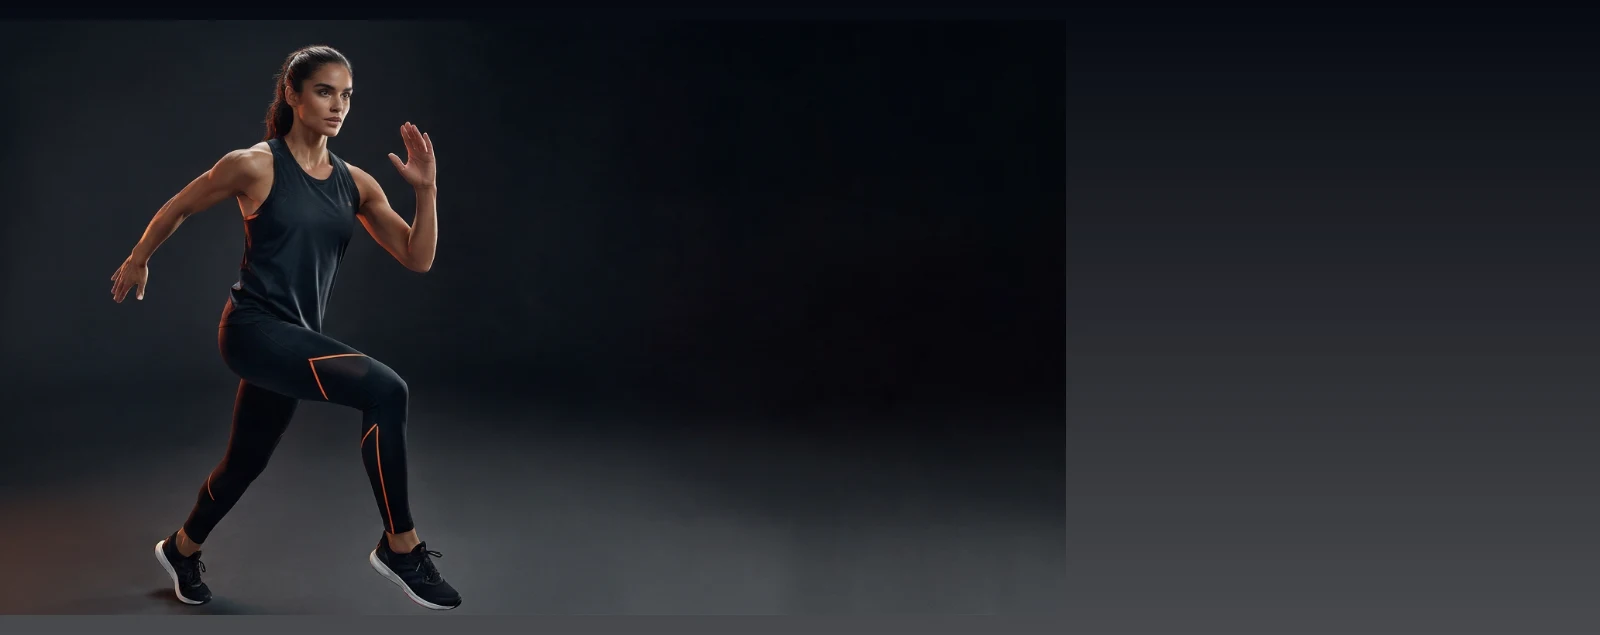
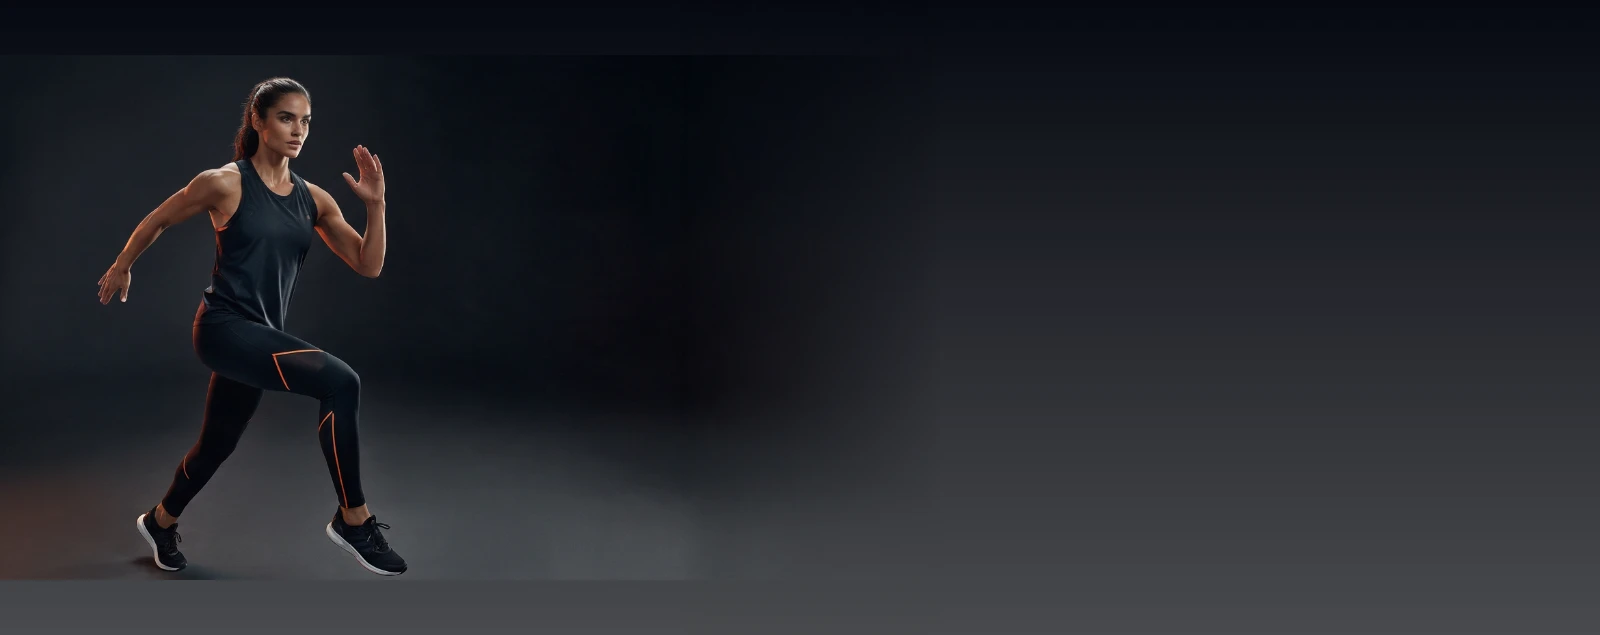
Topbar solid black, less hero tint, and a fixed seam on the new slide
TOPBAR: "solid black background with 20% shadow". The header's real,
one true home is inside @layer utilities (sporta-ui.css already
explains why — for !important declarations layer order reverses, so
a layered !important beats an unlayered one). A first pass at this
wrote a plain unlayered override outside that block, which measured
0% effect — exactly the mistake the file's own comment warns about.
Fixed in the actual rule instead: the --sp-header-bg fallback moves
from #2b2b2b to #000 (the owner can still override it in /backends;
this only changes what a shop that never touches the setting gets),
the shadow to a flat 20%, and backdrop-blur off (nothing is left for
it to soften once the background is fully opaque).

HERO TINT: the dark-wash gradient over hero photos was already cut
once this session, reasoned from "no slide has a caption yet" — both
photo slides now do, and their headline already carries its own
text-shadow for legibility, so the wash had room to come down again:
45%/20% alpha to 30%/12%.

THE NEW SLIDE'S SEAM: the "Sporta Features" artwork published earlier
today had a visible hard edge where the composited photo met the
extended background — confirmed with a pixel crop, not assumed. Two
things fixed it: more padding around the athlete (55px margin top and
bottom, up from 20), and a real two-dimensional blend at the join — a
patch canvas holding the same vertical fill gradient, alpha-masked
[…]

diff --git a/sporta-site/public_html/assets/sporta-ui.css b/sporta-site/public_html/assets/sporta-ui.css
@@ -411,10 +411,18 @@ html[lang='ar'] .app-header a.flex.min-h-11 {
  * ATTRIBUTE SELECTOR ON BOTH CLASSES TOGETHER, not a bare `.from-ink\/85` —
  * Tailwind's escaped class name matches wherever that utility is used
  * elsewhere on the page too; requiring `via-ink/40` alongside it scopes this
- * to the one gradient the hero actually builds from both. */
+ * to the one gradient the hero actually builds from both.
+ *
+ * LIGHTENED AGAIN — 2026-09-21, same day, "make less tint" on the two real
+ * photo slides this session just published (both DO carry real captions
+ * now, unlike when the first cut was made). Checked before cutting further:
+ * both slides' headlines are set in `.hero h1`, white and bold with its own
+ * text-shadow, which is what actually carries legibility over a photograph
+ * — the wash under it is a secondary aid, not the only thing standing
+ * between the text and the image, so it had room to come down again. */
 [class~="from-ink/85"][class~="via-ink/40"] {
-  --tw-gradient-from: #171a1e73 !important;  /* 85% -> 45% alpha */
-  --tw-gradient-via: #171a1e33 !important;   /* 40% -> 20% alpha */
+  --tw-gradient-from: #171a1e4d !important;  /* 85% -> 30% alpha */
+  --tw-gradient-via: #171a1e1f !important;   /* 40% -> 12% alpha */
 }
 
 /* AND THE COMPONENT ITSELF, which is what actually sizes the mounted hero.
@@ -2065,9 +2073,26 @@ main div.grid:has(> article > a[class*="aspect-"]) article .price-card {
      unlayered rules with no !important by design, so nothing it could emit
      would ever have won against this line. Reading a variable sidesteps the
      question entirely: the cascade still resolves to this declaration, and
-     only its value moves. */
+     only its value moves.
+
+     FALLBACK MOVED TO SOLID BLACK, AND THE SHADOW TO 20% — asked for by
+     name as "topbar solid black background with 20% shadow". #2b2b2b was
+     already asked for and delivered once (the "light black" charcoal
+     above); this is the owner narrowing it further to literal black.
+     Backdrop-blur is turned off in the same rule, for the same reason the
+     shadow's own comment gives for the border: a translucent background is
+     the only thing blur has anything to soften, and there is nothing left
+     to show through a fully opaque one — the class survives on the
+     element (it is the bundle's own), it simply does nothing now. THIS IS
+     THE ONE HOME for the header's background AND its blur — a second,
+     unlayered rule written elsewhere for either one would lose to this
+     block by the exact mechanism this comment already explains, which is
+     precisely the mistake a first attempt at this same change made before
+     being caught and folded back in here. */
   header.app-header {
-    background: var(--sp-header-bg, #2b2b2b) !important;
+    background: var(--sp-header-bg, #000) !important;
+    backdrop-filter: none !important;
+    -webkit-backdrop-filter: none !important;
     /* A DROP SHADOW, NOT EXTRA PADDING. On a phone the header sits flush
        against the hero image below it, with nothing to say where one ends
        and the other begins — measured at 390px, no gap at all. Padding
@@ -2077,7 +2102,7 @@ main div.grid:has(> article > a[class*="aspect-"]) article .price-card {
        on any viewport. header.app-header is `position: sticky`, so the
        shadow also reads correctly while scrolled — it is always the last
        thing painted above whatever content is under it. */
-    box-shadow: 0 2px 10px rgba(0, 0, 0, 0.18);
+    box-shadow: 0 2px 10px rgba(0, 0, 0, 0.20) !important;
     /* THE HAIRLINE UNDER THE BAR, REMOVED — asked for as "top bar without
        under bar line", 2026-09-20. The bundle's own `border-b border-white/10`
        class is a separate declaration from the shadow above and survives it

diff --git a/sporta-site/public_html/sw.js b/sporta-site/public_html/sw.js
@@ -103,7 +103,7 @@
 //
 // So: a fix to the RULES only helps arrivals. A VERSION bump is what reaches
 // the people the fix was written for, and it costs one re-download each.
-const VERSION = 'v65-qas-tap-target'
+const VERSION = 'v66-topbar-black-less-tint'
 const SHELL = `sporta-shell-${VERSION}`
 const ASSETS = `sporta-assets-${VERSION}`
 

diff --git a/scripts/live/live-file-check.php b/scripts/live/live-file-check.php
@@ -158,7 +158,7 @@ $WANT = [
[8 lines of base64/hex data omitted]
@@ -258,7 +258,7 @@ $WANT = [
[5 lines of base64/hex data omitted]
 ];
 
 // FILES THAT MUST NOT BE ON A LIVE SERVER.

diff --git a/scripts/live/live-served-check.php b/scripts/live/live-served-check.php
@@ -45,7 +45,7 @@ $WANT = [
[8 lines of base64/hex data omitted]
